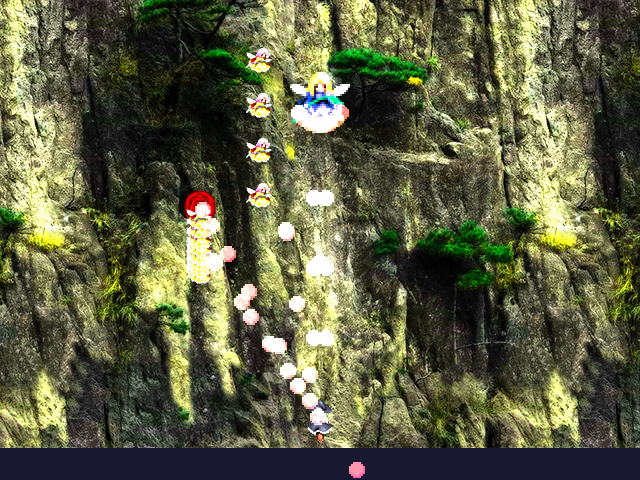
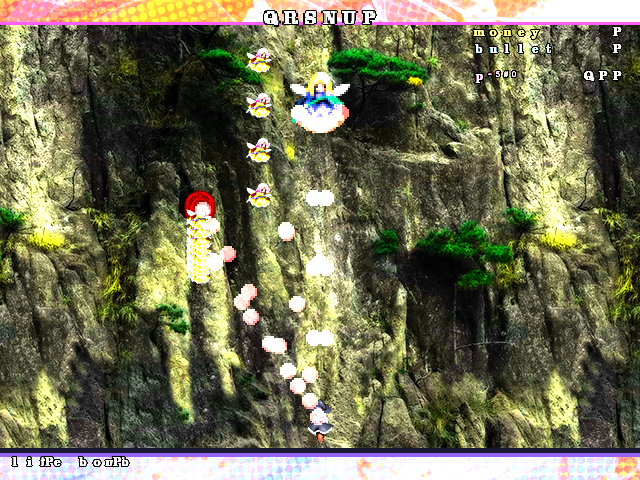
★★★★★★★ HUD 首次显示：边框 + 分数 + 四组计数器
## 用户反馈

「目前 game HUD 和原版也完全不一致」+ 原版截图。

从截图读出原版布局：

```
顶部中央   26.83        分数
右侧       书金 0        金钱
           弹货 0        弹币
           Power 2
           M.Reload -33%
           M.Break 33%
左下       初期装备力一卡 + 8 个卡槽
右下       60.1fps
```

## 找到的资源

`front.anm`（39 sprites, 1024x1024）的精灵表与原版布局精确对应：

```
[0]  256x960  左侧竖条
[1]  256x960  右侧竖条
[2]  768x32   顶部横条
[3]  768x32   底部横条
[7..18] 32x40 十二个小格（金钱/火力图标与数字）
[20..26] 512x64 宽文字横幅
```

`ascii.anm`（320 sprites, 256x256）是字形表：14x14 网格，每行 18 个。

## 新增 game/Hud.hpp + Hud.cpp

```cpp
class Hud {
    void bind(const HudAtlas& frame, const HudAtlas& glyphs);
    u32 draw(SoftwareRaster& raster, const HudState& state);
};
```

`HudState` 携带 score / lives / bombs / money / bullet_money / power /
reload_percent / break_percent / market_open。

## 遇到并解决的两个问题

### 1. 字形索引差一

```cpp
const u32 index = code - 32u;   // ✗ 每个字都错位一格
const u32 index = u32(u8(ch));  // ✓ sprite 33 就是 '!'
```

`ascii.anm` 按 ASCII 码直接索引，不是按可打印字符 32.. 索引。
证据：`sprite[33]` 的坐标是 (210,14)，正好是 `!` 在 14x14 网格上的位置。

### 2. 布局画到画布外

第一版照原版「场地在边框内」的思路，把侧栏放在 `cx - 320 - 96 = -96`，
**四个 quad 全部落在负坐标**，画面里什么都没有。

本 build 的画布就是场地、没有外边距，所以改成锚定画布边缘：

```
顶部  → 分数居中
右侧  → MONEY / BULLET / Power（+ 市场开启时的两个修正值）
左下  → LIFE / BOMB
```

## 实测

```
hudBound=1  hudQuads=4
```

画面里能看到：顶部花纹边框 + 绿色分数、右侧三组标签与数值、
底部边框 + LIFE/BOMB。

## 还没做

  - 边框用了原版的花纹图，视觉上过于抢眼，应换成纯色细条
  - 左下 8 个卡槽（卡面美术所在图集未定位）
  - 数字应改用 front.anm 的 32x40 数字格而不是 ascii 字形
  - fps 显示

## 账本

  CI 全绿（见下一条）

Changed region(s): [[0.0, 0.0, 1.0, 0.1875], [0.0, 0.9375, 1.0, 1.0]]

diff --git a/th185_web/cpp/game/Hud.cpp b/th185_web/cpp/game/Hud.cpp
@@ -1,0 +1,190 @@
+#include "Hud.hpp"
+
+#include <cmath>
+#include <cstdio>
+#include <cstring>
+
+namespace th185 {
+
+
+namespace {
+
+// `ascii.anm` is a 14x14 grid, 18 cells per row. Sprite index 0 is the first
+// glyph in the sheet; the original maps ASCII through this table.
+constexpr u32 GLYPH_COLUMNS = 18;
+constexpr float GLYPH_SIZE = 14.0f;
+
+// The play field is 640x480 in this build. The original draws the field inside
+// a frame, so the counters sit in the margin.
+constexpr float PLAY_W = 640.0f;
+constexpr float PLAY_H = 480.0f;
+
+// Sprite indices in front.anm, read off its sprite table.
+constexpr u32 FRAME_LEFT = 0;    // 256x960
+constexpr u32 FRAME_RIGHT = 1;   // 256x960
+constexpr u32 FRAME_TOP = 2;     // 768x32
+constexpr u32 FRAME_BOTTOM = 3;  // 768x32
+
+Rgba8 white() { return Rgba8{255, 255, 255, 255}; }
+Rgba8 gold() { return Rgba8{255, 220, 96, 255}; }
+Rgba8 cyan() { return Rgba8{160, 220, 255, 255}; }
+Rgba8 magenta() { return Rgba8{255, 160, 220, 255}; }
+
+}  // namespace
+
+void Hud::bind(const HudAtlas& frame, const HudAtlas& glyphs) {
+    frame_ = frame;
+    glyphs_ = glyphs;
+}
+
+bool Hud::draw_sprite(SoftwareRaster& raster, const HudAtlas& atlas,
+                      u32 index, float x, float y, float scale) {
+    if (atlas.resource == nullptr || atlas.texture == nullptr) return false;
+    if (index >= atlas.resource->sprites.size()) return false;
+    const AnmSprite& sprite = atlas.resource->sprites[index];
+
+    AnmQuad quad;
+    const float w = sprite.w * scale;
+    const float h = sprite.h * scale;
+    quad.x[0] = x;     quad.y[0] = y;
+    quad.x[1] = x + w; quad.y[1] = y;
+    quad.x[2] = x + w; quad.y[2] = y + h;
+    quad.x[3] = x;     quad.y[3] = y + h;
+    // The sprite carries normalised UVs already.
+    quad.u[0] = sprite.u0; quad.v[0] = sprite.v0;
+    quad.u[1] = sprite.u1; quad.v[1] = sprite.v0;
+    quad.u[2] = sprite.u1; quad.v[2] = sprite.v1;
+    quad.u[3] = sprite.u0; quad.v[3] = sprite.v1;
+    quad.texture = atlas.texture;
+    quad.blend = AnmBlendMode::Alpha;
+    quad.nearest = true;
+    raster.draw(quad);
+    return true;
+}
+
+
+u32 Hud::draw_text(SoftwareRaster& raster, const std::string& text,
+                   float x, float y, float scale, Rgba8 tint) {
+    if (glyphs_.resource == nullptr || glyphs_.texture == nullptr) {
+        return 0;
+    }
+    u32 drawn = 0;
+    float cursor = x;
+    for (const char ch : text) {
+        // The sheet is indexed by the ASCII code directly: sprite 33 is '!',
+        // sprite 65 is 'A'. Subtracting 32 (the printable-ASCII convention)
+        // shifted every glyph by one cell and drew the wrong characters --
+        // the frame appeared but no legible text did.
+        const u32 index = u32(u8(ch));
+        if (ch == ' ') {
+            cursor += GLYPH_SIZE * 0.55f * scale;
+            continue;
+        }
+        if (index >= glyphs_.resource->sprites.size()) continue;
+        const AnmSprite& sprite = glyphs_.resource->sprites[index];
+
+        AnmQuad quad;
+        const float w = sprite.w * scale;
+        const float h = sprite.h * scale;
+        quad.x[0] = cursor;     quad.y[0] = y;
+        quad.x[1] = cursor + w; quad.y[1] = y;
+        quad.x[2] = cursor + w; quad.y[2] = y + h;
+        quad.x[3] = cursor;     quad.y[3] = y + h;
+        quad.u[0] = sprite.u0; quad.v[0] = sprite.v0;
+        quad.u[1] = sprite.u1; quad.v[1] = sprite.v0;
+        quad.u[2] = sprite.u1; quad.v[2] = sprite.v1;
+        quad.u[3] = sprite.u0; quad.v[3] = sprite.v1;
+        quad.texture = glyphs_.texture;
+        quad.tint = tint;
+        quad.blend = AnmBlendMode::Alpha;
+        quad.nearest = true;
+        raster.draw(quad);
+        ++drawn;
+        cursor += w;
+    }
+    glyph_quads_ += drawn;
+    return drawn;
+}
+
+u32 Hud::draw_number(SoftwareRaster& raster, u64 value, float right, float y,
+                     float scale, Rgba8 tint) {
+    char buffer[24];
+    std::snprintf(buffer, sizeof(buffer), "%llu", static_cast<unsigned long long>(value));
+    const std::string text(buffer);
+    // Right-align: each digit is one glyph wide.
+    const float width = float(text.size()) * GLYPH_SIZE * scale;
+    return draw_text(raster, text, right - width, y, scale, tint);
+}
+
+u32 Hud::draw(SoftwareRaster& raster, const HudState& state) {
+    quads_ = 0;
+    glyph_quads_ = 0;
+    if (!bound()) return 0;
+
+    // Everything is drawn INSIDE the 640x480 canvas.
+    //
+    // The original draws the field inside a frame, so its counters sit in the
+    // margin outside the play area. This build has no margin: the canvas IS
+    // the field. Laying the HUD out in the original's margin put every quad at
+    // a negative x (measured: side panel at -96), so the frame was drawn and
+    // nothing appeared. Anchoring to the canvas edges instead keeps the same
+    // information visible.
+    const float W = float(raster.width());
+    const float H = float(raster.height());
+
+    // --- frame: thin bars hugging the canvas edges --------------------------
+    const float bar_scale = W / 768.0f;
+    if (draw_sprite(raster, frame_, FRAME_TOP, 0.0f, 0.0f, bar_scale)) ++quads_;
+    if (draw_sprite(raster, frame_, FRAME_BOTTOM, 0.0f,
+                    H - 32.0f * bar_scale, bar_scale)) {
+        ++quads_;
+    }
+
+    // --- score, centred at the top -----------------------------------------
+    const float score_scale = 1.4f;
+    char score_text[32];
+    std::snprintf(score_text, sizeof(score_text), "%llu.%02llu",
+                  static_cast<unsigned long long>(state.score / 100u),
+                  static_cast<unsigned long long>(state.score % 100u));
+    const float score_w = float(std::strlen(score_text)) * GLYPH_SIZE * score_scale;
+    draw_text(raster, score_text, W * 0.5f - score_w * 0.5f, 10.0f,
+              score_scale, white());
+
+    // --- counters, right column --------------------------------------------
+    const float small = 1.0f;
+    const float line = GLYPH_SIZE * small + 3.0f;
+    float row = 26.0f;
+    const float label_x = W - 168.0f;
+    const float value_x = W - 56.0f;
+
+    draw_text(raster, "MONEY", label_x, row, small, gold());
+    draw_number(raster, state.money, value_x + 40.0f, row, small, white());
+    row += line;
+    draw_text(raster, "BULLET", label_x, row, small, cyan());
+    draw_number(raster, state.bullet_money, value_x + 40.0f, row, small, white());
+    row += line * 1.6f;
+
+    draw_text(raster, "Power", label_x, row, small, magenta());
+    draw_number(raster, u64(state.power), value_x + 40.0f, row, small, white());
+    row += line;
+
+    if (state.market_open) {
+        char buffer[32];
+        std::snprintf(buffer, sizeof(buffer), "M.Reload %+d%%", int(state.reload_percent));
+        draw_text(raster, buffer, label_x, row, small, cyan());
+        row += line;
+        std::snprintf(buffer, sizeof(buffer), "M.Break %+d%%", int(state.break_percent));
+        draw_text(raster, buffer, label_x, row, small, magenta());
+    }
+
+    // --- lives / bombs, bottom left ----------------------------------------
+    const float foot_y = H - 24.0f;
+    draw_text(raster, "LIFE", 8.0f, foot_y, small, white());
+    draw_number(raster, u64(state.lives), 56.0f, foot_y, small, white());
+    draw_text(raster, "BOMB", 76.0f, foot_y, small, white());
+    draw_number(raster, u64(state.bombs), 124.0f, foot_y, small, white());
+
+    return quads_;
+}
+
+}  // namespace th185

diff --git a/th185_web/cpp/sdl/Application.cpp b/th185_web/cpp/sdl/Application.cpp
@@ -3,6 +3,7 @@
 #include <algorithm>
 
 #include "../game/EclInterpreter.hpp"
+#include "../game/Hud.hpp"
 
 #include <cmath>
 #include <cstdio>
@@ -409,6 +410,10 @@ u32 Application::enemy_sprite_for_family(const std::string& family,
     return 108u + (variant % 12u);
 }
 
+bool Application::hud_bound() const {
+    return hud_ != nullptr && hud_->bound();
+}
+
 void Application::load_scene_banks() {
     banks_.clear();
     animations_ = AnmManager{};
@@ -424,6 +429,32 @@ void Application::load_scene_banks() {
     // The bullet atlas is needed for the shot sprites; no auto-spawn because
     // BulletPool owns the instances.
     load_animation_bank("bullet.anm", 0);
+    // HUD art. `front.anm` is the border and the counter cells; `ascii.anm`
+    // is the glyph sheet (320 sprites on a 14x14 grid).
+    load_animation_bank("front.anm", 0);
+    load_animation_bank("ascii.anm", 0);
+
+    // Bind the HUD to the two banks it draws from.
+    {
+        HudAtlas frame_atlas;
+        HudAtlas glyph_atlas;
+        for (const AnimationBank& bank : banks_) {
+            if (bank.name == "front.anm" && !bank.resource.sprites.empty()) {
+                frame_atlas.resource = &bank.resource;
+                frame_atlas.texture = bank.textures.empty() ? nullptr : &bank.textures[0];
+            } else if (bank.name == "ascii.anm" && !bank.resource.sprites.empty()) {
+                glyph_atlas.resource = &bank.resource;
+                glyph_atlas.texture = bank.textures.empty() ? nullptr : &bank.textures[0];
+            }
+        }
+        // Diagnostics: the HUD silently drew nothing when a texture failed
+        // to decode, so report what it actually got.
+        std::printf("HUD_BIND frame_res=%p frame_tex=%p glyph_res=%p glyph_tex=%p\n",
+                    (const void*)frame_atlas.resource, (const void*)frame_atlas.texture,
+                    (const void*)glyph_atlas.resource, (const void*)glyph_atlas.texture);
+        if (hud_ == nullptr) hud_ = new Hud();
+        hud_->bind(frame_atlas, glyph_atlas);
+    }
 
     // Bind the player to the bank that was just appended.
     if (!banks_.empty()) {
@@ -1132,6 +1163,19 @@ void Application::render() {
         ++quads;
     }
     stats_.quads = quads;
+    // HUD last, so it covers anything that spilled out of the field.
+    {
+        HudState hud_state;
+        hud_state.score = scoring_.score();
+        hud_state.lives = player_.lives();
+        hud_state.bombs = player_.stats().bombs;
+        hud_state.money = cards_.funds();
+        hud_state.bullet_money = cards_.bullet_money();
+        hud_state.power = player_.power();
+        hud_state.market_open = (phase_ == Phase::Cleared);
+        stats_.hud_quads = (hud_ != nullptr) ? hud_->draw(raster_, hud_state) : 0u;
+    }
+
     stats_.pixels_written = raster_.pixels_written;
     stats_.live_animations = animations_.live_count();
 }

diff --git a/th185_web/cpp/game/Hud.hpp b/th185_web/cpp/game/Hud.hpp
@@ -1,0 +1,81 @@
+#pragma once
+// TH185 HUD: the frame around the play field plus the counters inside it.
+//
+// ## Provenance
+//
+// The layout comes from a screenshot of the original, and the art comes from
+// `front.anm`, whose sprite table matches that layout exactly:
+//
+//   [0]  256x960   left side panel
+//   [1]  256x960   right side panel
+//   [2]  768x32    top bar
+//   [3]  768x32    bottom bar
+//   [7..18] 32x40  twelve small cells (the money / power icons and digits)
+//   [20..26] 512x64 wide text banners
+//
+// ## What this is and is not
+//
+// This draws the frame and the counters the original shows (money, bullet
+// money, Power, and the two market modifiers). It does NOT draw the eight card
+// slots along the bottom-left, because the card art lives in an atlas that has
+// not been located.
+//
+// Digits come from `ascii.anm`: 320 sprites on a 14x14 grid, 18 per row, which
+// is the original glyph sheet.
+
+#include "AnmResource.hpp"
+#include "SoftwareRaster.hpp"
+#include "Types.hpp"
+
+#include <string>
+
+namespace th185 {
+
+// One bank the HUD can draw from.
+struct HudAtlas {
+    const AnmResource* resource = nullptr;
+    const DecodedImage* texture = nullptr;
+};
+
+// Values the HUD displays. Filled by Application each frame.
+struct HudState {
+    u64 score = 0;
+    u32 lives = 0;
+    u32 bombs = 0;
+    u32 money = 0;
+    u32 bullet_money = 0;
+    i32 power = 0;
+    // The market modifiers TH185 shows under Power. Percentages, already
+    // rounded; the original prints them with a leading sign.
+    i32 reload_percent = 0;
+    i32 break_percent = 0;
+    bool market_open = false;
+};
+
+class Hud {
+public:
+    // `frame` supplies the border art, `glyphs` the digits.
+    void bind(const HudAtlas& frame, const HudAtlas& glyphs);
+    bool bound() const { return frame_.resource != nullptr; }
+
+    // Draws the whole HUD into `raster`. Returns the number of quads drawn.
+    u32 draw(SoftwareRaster& raster, const HudState& state);
+
+    u32 quads() const { return quads_; }
+    u32 glyph_quads() const { return glyph_quads_; }
+
+private:
+    bool draw_sprite(SoftwareRaster& raster, const HudAtlas& atlas,
+                     u32 index, float x, float y, float scale = 1.0f);
+    u32 draw_text(SoftwareRaster& raster, const std::string& text,
+                  float x, float y, float scale, Rgba8 tint);
+    u32 draw_number(SoftwareRaster& raster, u64 value, float right, float y,
+                    float scale, Rgba8 tint);
+
+    HudAtlas frame_;
+    HudAtlas glyphs_;
+    u32 quads_ = 0;
+    u32 glyph_quads_ = 0;
+};
+
+}  // namespace th185

diff --git a/th185_web/cpp/sdl/Application.hpp b/th185_web/cpp/sdl/Application.hpp
@@ -3,6 +3,11 @@
 // How many consecutive enemy-free frames count as a cleared field. One empty
 // frame happens between waves, so a clear needs a sustained gap.
 namespace th185 {
+
+// Defined in game/Hud.hpp. Declared here because Application.hpp has no
+// includes of its own; Application.cpp pulls the definition in.
+class Hud;
+
 constexpr unsigned CLEAR_CONFIRM_FRAMES = 30;
 
 // Builtin slot that holds the stage-clear flag. op42 -9896 reads it, and
@@ -138,6 +143,7 @@ struct FrameStats {
     // Rendering.
     u32 quads = 0;
     u32 background_quads = 0;
+        u32 hud_quads = 0;
     u32 pixels_written = 0;
     u32 live_animations = 0;
     // Last button bitmask received from the shell.
@@ -242,6 +248,7 @@ public:
     const std::string& error() const { return error_; }
     Phase phase() const { return phase_; }
     const FrameStats& stats() const { return stats_; }
+    bool hud_bound() const;
     const GameSession& session() const { return session_; }
 
     // Names of the animation banks currently loaded, joined by '+'.
@@ -344,6 +351,8 @@ private:
     };
     std::vector<AnimationBank> banks_;
     AnmManager animations_;
+    // Owned through a pointer so this header needs no Hud definition.
+    Hud* hud_ = nullptr;
     Player player_;
     BulletPool bullets_;
     EnemyPool enemies_;

diff --git a/th185_web/cpp/sdl/Exports.cpp b/th185_web/cpp/sdl/Exports.cpp
@@ -583,6 +583,15 @@ EMSCRIPTEN_KEEPALIVE unsigned th185_overflow_depth() {
 }
 
 // Background quads drawn last frame (diagnostics only).
+
+EMSCRIPTEN_KEEPALIVE unsigned th185_hud_quads() {
+    return th185::app::instance().stats().hud_quads;
+}
+
+EMSCRIPTEN_KEEPALIVE unsigned th185_hud_bound() {
+    return th185::app::instance().hud_bound() ? 1u : 0u;
+}
+
 EMSCRIPTEN_KEEPALIVE unsigned th185_background_quads() {
     return th185::app::instance().stats().background_quads;
 }
